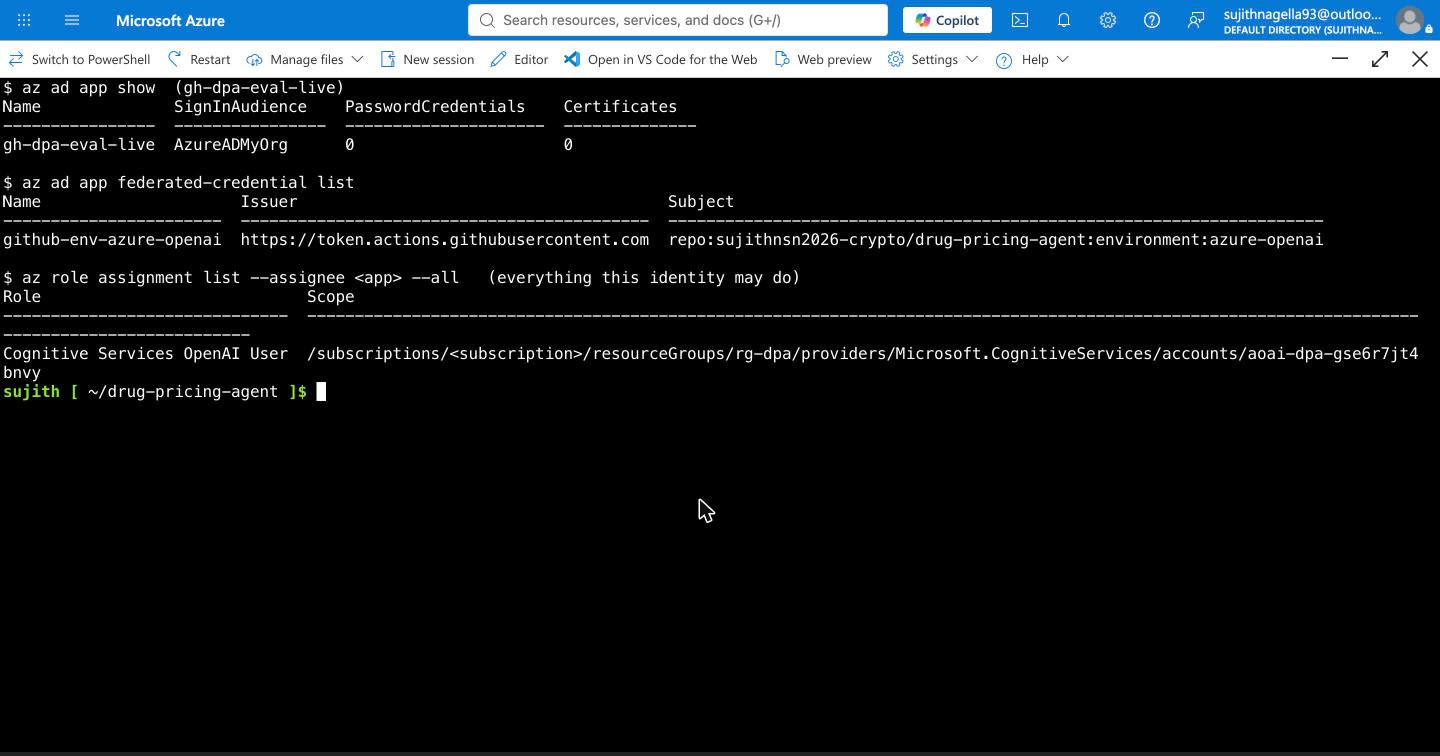
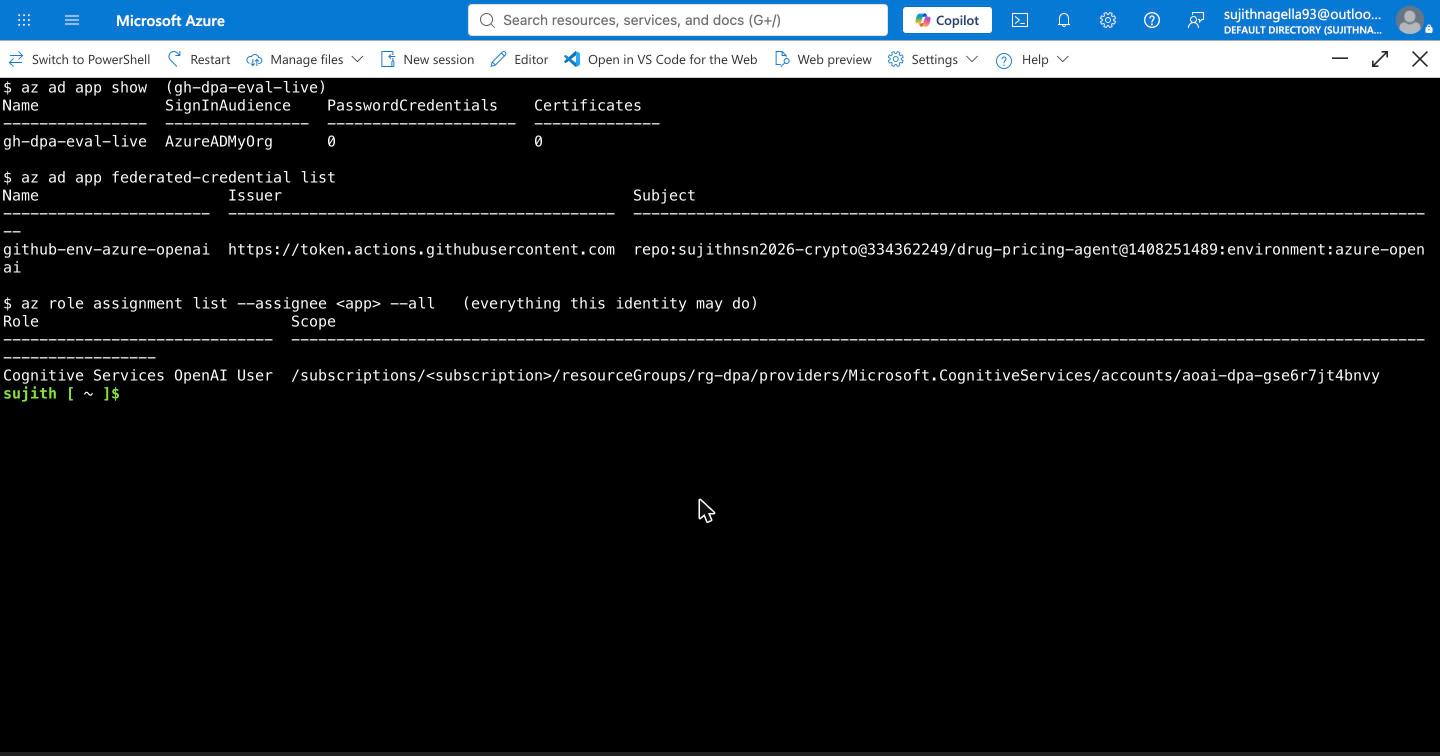
Review page: explain when no Price-Watch run is published; record the open Price-Watch stall
Screenshot 55 retaken with the federated credential's updated (immutable-ID) subject.

Claude-Session: https://claude.ai/code/session_011y5VqPAMZouvFATSuM2bgG

Changed region(s): [[0.0, 0.0913, 1.0, 0.5476]]

diff --git a/src/dpa/ai/web.py b/src/dpa/ai/web.py
@@ -208,7 +208,14 @@ def review_page() -> str:
     # a URL (URLs end up in browser history, proxy logs and screenshots). The server checks it.
     run = _latest_run()
     if not run:
-        return f"<!doctype html><meta charset=utf-8>{STYLE}<div class=wrap>{NAV}<h1>No Price-Watch runs yet</h1></div>"
+        return (f"<!doctype html><meta charset=utf-8><meta name=viewport content=\"width=device-width,initial-scale=1\">"
+                f"<title>Price-Watch review</title>{STYLE}<div class=wrap>{NAV}<h1>Price-Watch review</h1>"
+                "<p class=sub>No Price-Watch run has been published to this deployment yet. Price-Watch runs from the "
+                "command line (<code>dpa-pricewatch run</code>): SQL finds unusual price moves, one agent per move "
+                "looks for the cause, code re-checks every number, and a reviewer approves findings here.</p>"
+                f"<p>The first run on real data (6 signals, 6/6 verified by code, $0.0146) is documented with "
+                f"screenshots in <a href=\"{REPO_URL}#step-6-price-watch-detect-in-sql-explain-with-agents-verify-in-code\">"
+                f"README Step 6</a>.</p>{_footer()}</div>")
     d = json.load(open(os.path.join(run, "findings.json")))
     e = html.escape
     cards = []

diff --git a/tests/test_hosting.py b/tests/test_hosting.py
@@ -101,3 +101,9 @@ def test_review_page_never_puts_token_in_url(web, tmp_path):
     page = c.get("/review").text
     assert "type=password" in page and "X-Admin-Token':TOKEN" in page and "location.search" not in page
     assert "class=rev hidden" in page  # buttons hidden until a token is entered; the server still checks it
+
+
+def test_review_page_explains_when_no_run_is_published(web):
+    _, c = web
+    page = c.get("/review").text
+    assert "No Price-Watch run has been published" in page and "README Step 6" in page

diff --git a/README.md b/README.md
@@ -842,6 +842,12 @@ These are the parts worth explaining in an interview.
 - Delta MERGE is exercised on Databricks only; locally the same staged rows are applied by
   `apply_staged_local`, which the equality test covers.
 - Shortages are matched to prices by exact NDC. Matching by ingredient (via RxNorm) would catch more.
+- **Open (19 Oct 2026): Price-Watch stalls on the keyless Step 10 deployment.** Run from Cloud Shell with Entra
+  sign-in, the first investigator finished in 6 s and the other three never returned (trace: no further model or tool
+  spans, processes idle). Suspects: concurrent Entra token fetches through the Azure CLI credential, or parallel
+  tool calls over the single shared MCP stdio session. Next step: run with one investigator, then add a per-call
+  timeout and a span around token acquisition. Until then the live review page explains this and links to the
+  verified October run (Step 6).
 
 ## Data sources and terms
 
